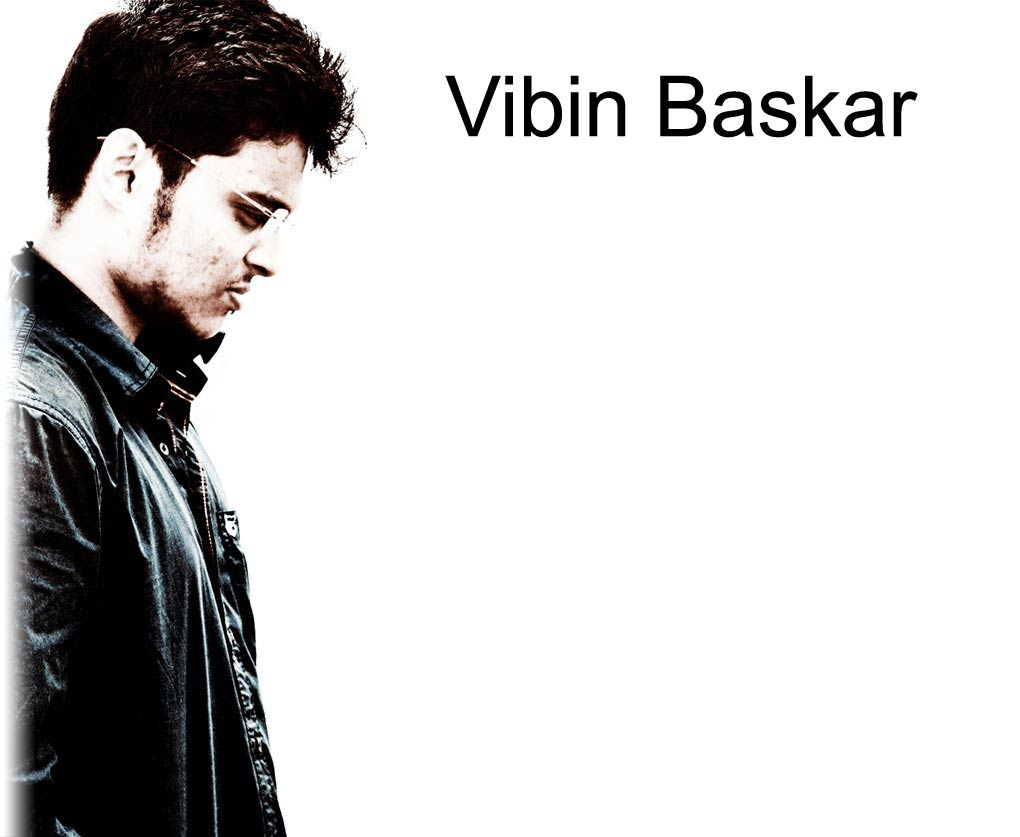
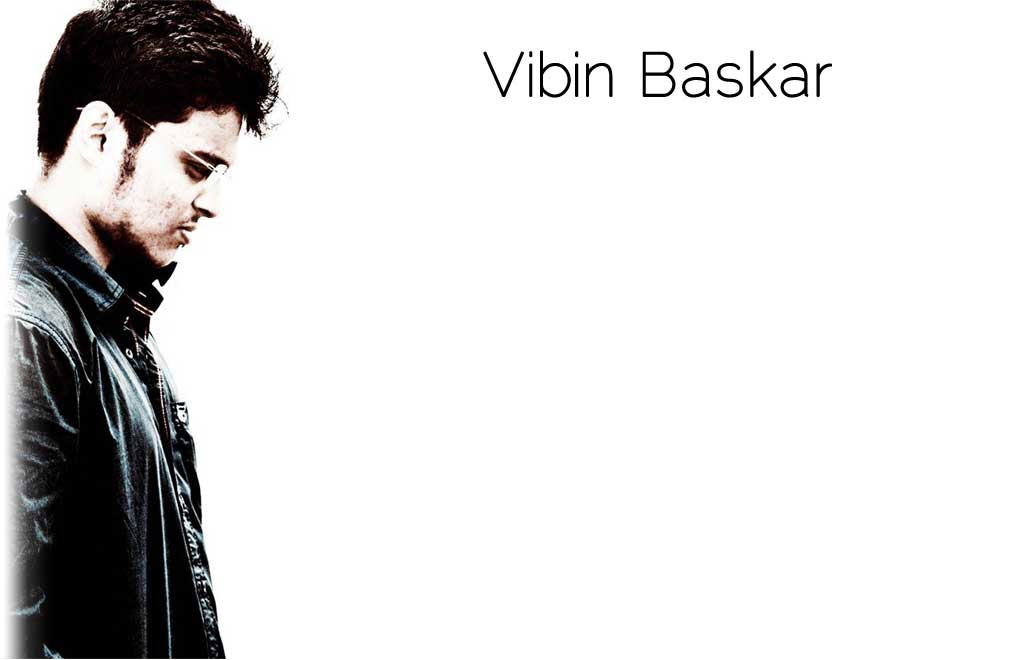
size change, twitter tweak

diff --git a/css/style.css b/css/style.css
@@ -191,7 +191,7 @@ nav ul li a:hover {
 	margin: 0 auto;
 	background-color: transparent;
 	background: url('../images/body-bg.jpg') no-repeat;
-	min-height: 750px;
+	min-height: 650px;
 	color:#000;
 }
 
@@ -207,9 +207,9 @@ nav ul li a:hover {
              
 #ajax_content {
     display: none;
-	padding: 170px 0 0 380px;
+	padding: 140px 0 0 300px;
 	height: 500px;
-	width: 640px;
+	width: 720px;
 	overflow: auto;
 }   
 

diff --git a/data/pages/videos.html b/data/pages/videos.html
@@ -1,5 +1,5 @@
 <div style="text-align:justify">
 <center>
-<iframe width="560" height="315" src="http://www.youtube-nocookie.com/embed/videoseries?list=PLKFpqGJqQIJTXpXG5AZAa8WN90QNlu7gM" frameborder="0" allowfullscreen></iframe>
+<iframe width="650" height="366" src="http://www.youtube-nocookie.com/embed/videoseries?list=PLKFpqGJqQIJTXpXG5AZAa8WN90QNlu7gM" frameborder="0" allowfullscreen></iframe>
 </center>
 </div>

diff --git a/index.php b/index.php
@@ -46,7 +46,7 @@ $xml = simplexml_load_file($url) or die("could not connect");
        foreach($xml->status as $status){
        $text = $status->text;
        }
-       echo $text;
+       echo "<a href="//twitter.com/vibinbaskar">@vibinbaskar</a>: " . $text;
  }
 
 getTwitterStatus("vibinbaskar");
